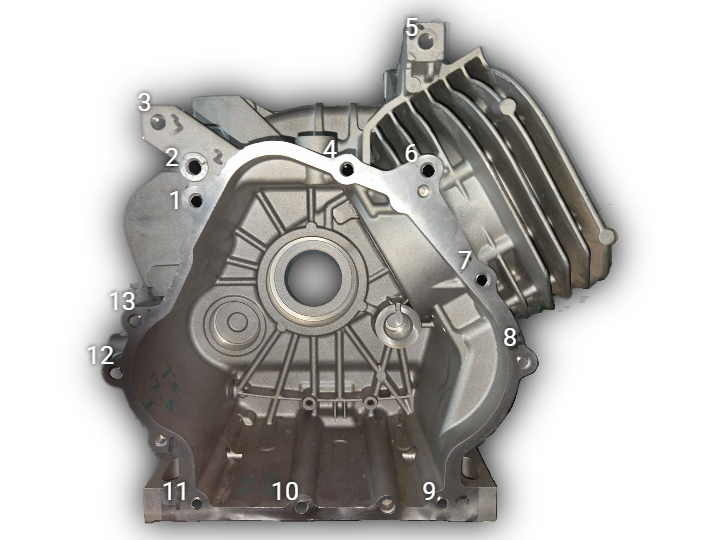
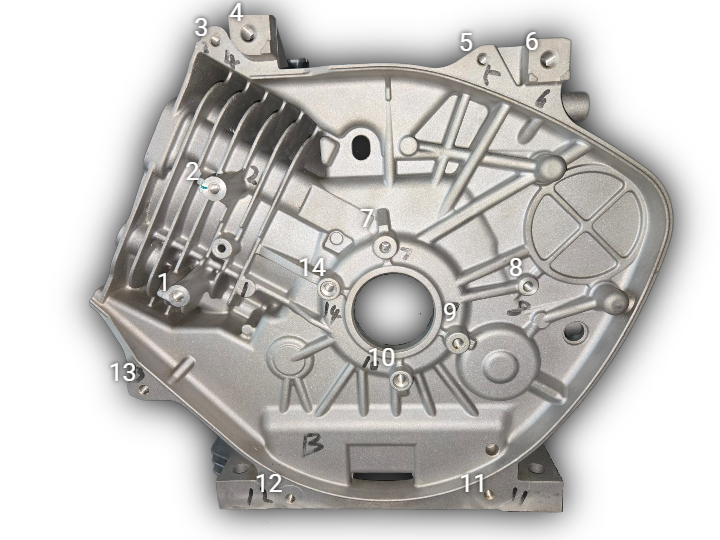
.

diff --git a/src/features/dashboard/components/resultshow.tsx b/src/features/dashboard/components/resultshow.tsx
@@ -23,6 +23,12 @@ import { ScrollArea } from "@/components/ui/scroll-area";
 import placeholder from "@/assets/placeholder.svg";
 import { invoke } from '@tauri-apps/api/core';
 
+import EH09_A from "@/assets/EH09_A.png";
+import EH09_B from "@/assets/EH09_B.png";
+import EH09_C from "@/assets/EH09_C.png";
+import EH09_D from "@/assets/EH09_D.png";
+import EH09_E from "@/assets/EH09_E.png";
+import EH09_F from "@/assets/EH09_F.png";
 
 import EH12_A from "@/assets/EH12_A.png";
 import EH12_B from "@/assets/EH12_B.png";
@@ -32,7 +38,21 @@ import EH12_E from "@/assets/EH12_E.png";
 
 import EY28_A from "@/assets/EY28_A.png";
 import EY28_B from "@/assets/EY28_B.png";
+import EY28_C from "@/assets/EY28_C.png";
+import EY28_D from "@/assets/EY28_D.png";
+import EY28_E from "@/assets/EY28_E.png";
 
+import EK30_A from "@/assets/EK30_A.png";
+import EK30_B from "@/assets/EK30_B.png";
+import EK30_C from "@/assets/EK30_C.png";
+import EK30_D from "@/assets/EK30_D.png";
+import EK30_E from "@/assets/EK30_E.png";
+
+import EK40_A from "@/assets/EK40_A.png";
+import EK40_B from "@/assets/EK40_B.png";
+import EK40_C from "@/assets/EK40_C.png";
+import EK40_D from "@/assets/EK40_D.png";
+import EK40_E from "@/assets/EK40_E.png";
 
 // import { Label } from "@/components/ui/label"
 const faceMapping: { [key: number]: string } = {
@@ -56,14 +76,14 @@ const faceReverseMapping: { [key: string]: number } = {
 
 const imageMap: Record<string, Record<string, string>> = {
 
-  // EH09: {
-  //   A: EH09_A,
-  //   B: EH09_B,
-  //   C: EH09_C,
-  //   D: EH09_D,
-  //   E: EH09_E,
-  //   F: EH09_F,
-  // },
+  EH09: {
+    A: EH09_A,
+    B: EH09_B,
+    C: EH09_C,
+    D: EH09_D,
+    E: EH09_E,
+    F: EH09_F,
+  },
   EH12: {
     A: EH12_A,
     B: EH12_B,
@@ -74,9 +94,23 @@ const imageMap: Record<string, Record<string, string>> = {
   EY28: {
     A: EY28_A,
     B: EY28_B,
-    // C: EY28_C,
-    // D: EY28_D,
-    // E: EY28_E,
+    C: EY28_C,
+    D: EY28_D,
+    E: EY28_E,
+  },
+  EK30: {
+    A: EK30_A,
+    B: EK30_B,
+    C: EK30_C,
+    D: EK30_D,
+    E: EK30_E,
+  },
+  EK40: {
+    A: EK40_A,
+    B: EK40_B,
+    C: EK40_C,
+    D: EK40_D,
+    E: EK40_E,
   },
   // 可添加其他类型
 };
